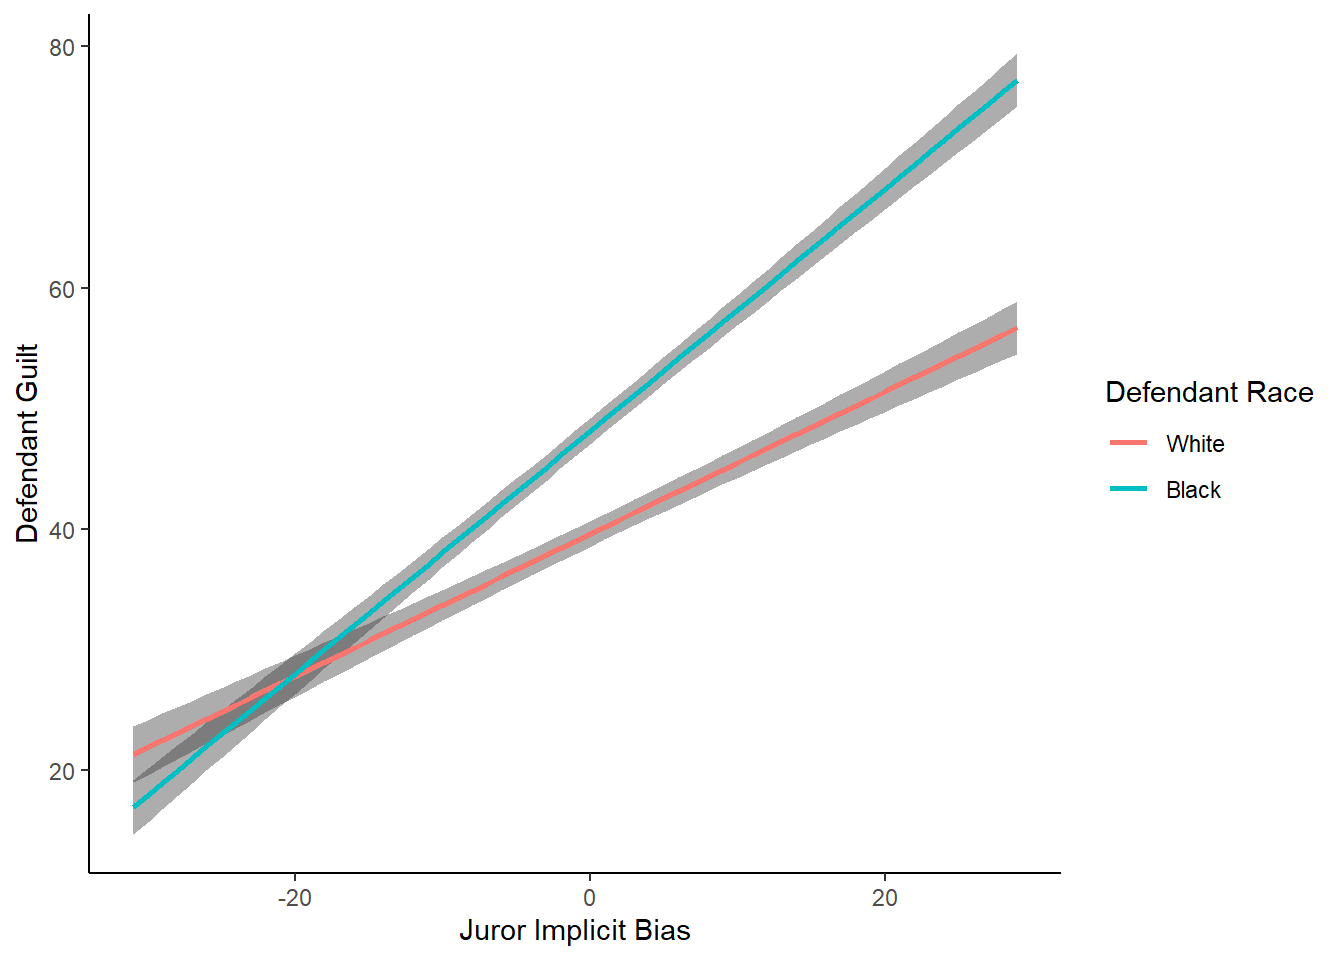
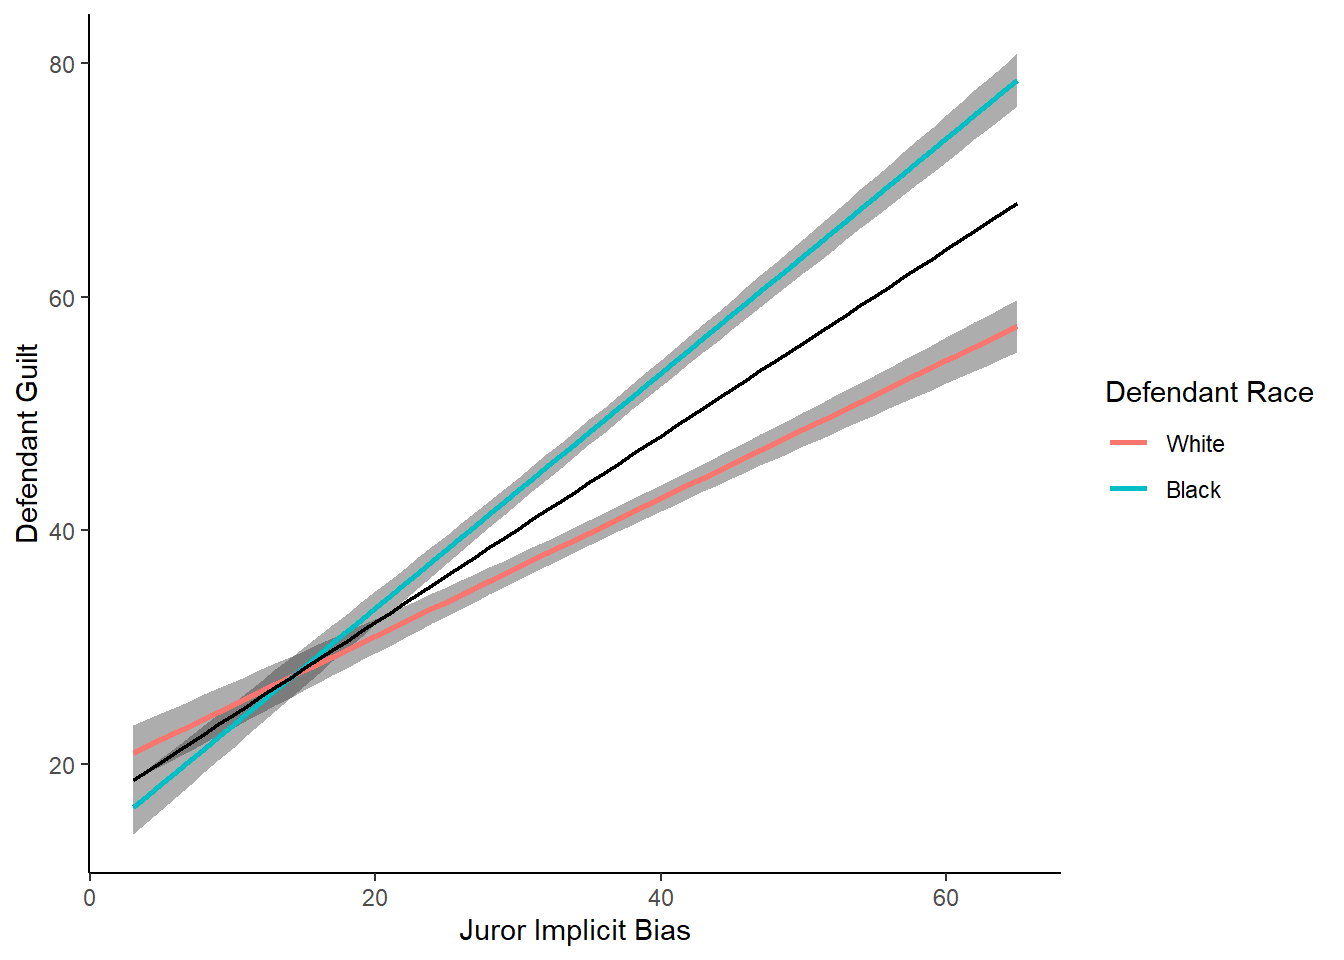
Built site for gh-pages

diff --git a/11_interactions_continuous_and_dichotomous.html b/11_interactions_continuous_and_dichotomous.html
@@ -326,6 +326,7 @@ window.Quarto = {
   <ul>
   <li><a href="#interactive-models-quantitative-and-dichotomous" id="toc-interactive-models-quantitative-and-dichotomous" class="nav-link active" data-scroll-target="#interactive-models-quantitative-and-dichotomous"><span class="header-section-number">11.1</span> Interactive Models: Quantitative and Dichotomous</a></li>
   <li><a href="#quantitative-dichotomous-predictor-main-effects" id="toc-quantitative-dichotomous-predictor-main-effects" class="nav-link" data-scroll-target="#quantitative-dichotomous-predictor-main-effects"><span class="header-section-number">11.2</span> Quantitative &amp; Dichotomous: Predictor <em>Main</em> effects</a></li>
+  <li><a href="#quantitative-dichotomous-predictor-simple-effects" id="toc-quantitative-dichotomous-predictor-simple-effects" class="nav-link" data-scroll-target="#quantitative-dichotomous-predictor-simple-effects"><span class="header-section-number">11.3</span> Quantitative &amp; Dichotomous: Predictor <em>simple</em> effects</a></li>
   </ul>
 <div class="toc-actions"><ul><li><a href="https://github.com/jjcurtin/book_glm/edit/main/11_interactions_continuous_and_dichotomous.qmd" class="toc-action"><i class="bi bi-github"></i>Edit this page</a></li></ul></div></nav>
     </div>
@@ -597,31 +598,33 @@ black_defend_c:bias_c  0.2312938  0.5985222</code></pre>
 <div class="cell">
 <details class="code-fold">
 <summary>Code</summary>
-<div class="sourceCode cell-code" id="cb27"><pre class="sourceCode r code-with-copy"><code class="sourceCode r"><span id="cb27-1"><a href="#cb27-1" aria-hidden="true" tabindex="-1"></a>preds_int <span class="ot">&lt;-</span> <span class="fu">expand.grid</span>(<span class="at">bias_c =</span> <span class="fu">seq</span>(<span class="sc">-</span><span class="dv">31</span>, <span class="dv">29</span>, <span class="at">by =</span> <span class="dv">1</span>), <span class="at">black_defend_c =</span> <span class="fu">c</span>(<span class="sc">-</span>.<span class="dv">5</span>, .<span class="dv">5</span>))</span>
-<span id="cb27-2"><a href="#cb27-2" aria-hidden="true" tabindex="-1"></a>preds_y_int <span class="ot">&lt;-</span> <span class="fu">predict</span>(m_int, <span class="at">newdata =</span> preds_int, <span class="at">se.fit =</span> <span class="cn">TRUE</span>) </span>
-<span id="cb27-3"><a href="#cb27-3" aria-hidden="true" tabindex="-1"></a></span>
-<span id="cb27-4"><a href="#cb27-4" aria-hidden="true" tabindex="-1"></a>plot_int <span class="ot">&lt;-</span> preds_int <span class="sc">|&gt;</span> </span>
-<span id="cb27-5"><a href="#cb27-5" aria-hidden="true" tabindex="-1"></a>  <span class="fu">bind_cols</span>(preds_y_int) <span class="sc">|&gt;</span> </span>
-<span id="cb27-6"><a href="#cb27-6" aria-hidden="true" tabindex="-1"></a>  <span class="fu">as_tibble</span>() <span class="sc">|&gt;</span>  </span>
-<span id="cb27-7"><a href="#cb27-7" aria-hidden="true" tabindex="-1"></a>  <span class="fu">mutate</span>(<span class="at">upper =</span> fit <span class="sc">+</span> se.fit,</span>
-<span id="cb27-8"><a href="#cb27-8" aria-hidden="true" tabindex="-1"></a>         <span class="at">lower=</span> fit <span class="sc">-</span> se.fit) <span class="sc">|&gt;</span> </span>
-<span id="cb27-9"><a href="#cb27-9" aria-hidden="true" tabindex="-1"></a>  <span class="fu">ggplot</span>() <span class="sc">+</span></span>
-<span id="cb27-10"><a href="#cb27-10" aria-hidden="true" tabindex="-1"></a>  <span class="fu">geom_ribbon</span>(<span class="fu">aes</span>(<span class="at">x =</span> bias_c, <span class="at">ymin =</span> lower, <span class="at">ymax =</span> upper, </span>
-<span id="cb27-11"><a href="#cb27-11" aria-hidden="true" tabindex="-1"></a>                  <span class="at">group =</span> <span class="fu">factor</span>(black_defend_c, </span>
-<span id="cb27-12"><a href="#cb27-12" aria-hidden="true" tabindex="-1"></a>                                 <span class="at">levels =</span> <span class="fu">c</span>(<span class="sc">-</span>.<span class="dv">5</span>,.<span class="dv">5</span>),</span>
-<span id="cb27-13"><a href="#cb27-13" aria-hidden="true" tabindex="-1"></a>                                 <span class="at">labels =</span> <span class="fu">c</span>(<span class="st">"White"</span>, <span class="st">"Black"</span>))), </span>
-<span id="cb27-14"><a href="#cb27-14" aria-hidden="true" tabindex="-1"></a>              <span class="at">alpha =</span> <span class="fl">0.4</span>) <span class="sc">+</span></span>
-<span id="cb27-15"><a href="#cb27-15" aria-hidden="true" tabindex="-1"></a>  <span class="fu">geom_line</span>(<span class="fu">aes</span>(<span class="at">x =</span> bias_c, <span class="at">y =</span> fit, </span>
-<span id="cb27-16"><a href="#cb27-16" aria-hidden="true" tabindex="-1"></a>                <span class="at">color =</span> <span class="fu">factor</span>(black_defend_c, </span>
-<span id="cb27-17"><a href="#cb27-17" aria-hidden="true" tabindex="-1"></a>                                 <span class="at">levels =</span> <span class="fu">c</span>(<span class="sc">-</span>.<span class="dv">5</span>,.<span class="dv">5</span>),</span>
-<span id="cb27-18"><a href="#cb27-18" aria-hidden="true" tabindex="-1"></a>                                 <span class="at">labels =</span> <span class="fu">c</span>(<span class="st">"White"</span>, <span class="st">"Black"</span>))), </span>
-<span id="cb27-19"><a href="#cb27-19" aria-hidden="true" tabindex="-1"></a>            <span class="at">linewidth =</span> <span class="dv">1</span>) <span class="sc">+</span></span>
-<span id="cb27-20"><a href="#cb27-20" aria-hidden="true" tabindex="-1"></a>  <span class="fu">labs</span>(<span class="at">x =</span> <span class="st">"Juror Implicit Bias"</span>,</span>
-<span id="cb27-21"><a href="#cb27-21" aria-hidden="true" tabindex="-1"></a>       <span class="at">y =</span> <span class="st">"Defendant Guilt"</span>,</span>
-<span id="cb27-22"><a href="#cb27-22" aria-hidden="true" tabindex="-1"></a>       <span class="at">color =</span> <span class="st">"Defendant Race"</span>) </span>
-<span id="cb27-23"><a href="#cb27-23" aria-hidden="true" tabindex="-1"></a></span>
-<span id="cb27-24"><a href="#cb27-24" aria-hidden="true" tabindex="-1"></a></span>
-<span id="cb27-25"><a href="#cb27-25" aria-hidden="true" tabindex="-1"></a>plot_add <span class="sc">+</span> plot_int</span></code><button title="Copy to Clipboard" class="code-copy-button"><i class="bi"></i></button></pre></div>
+<div class="sourceCode cell-code" id="cb27"><pre class="sourceCode r code-with-copy"><code class="sourceCode r"><span id="cb27-1"><a href="#cb27-1" aria-hidden="true" tabindex="-1"></a>m_int_raw <span class="ot">&lt;-</span> <span class="fu">lm</span>(guilt <span class="sc">~</span> black_defend <span class="sc">*</span> bias, <span class="at">data =</span> data)</span>
+<span id="cb27-2"><a href="#cb27-2" aria-hidden="true" tabindex="-1"></a>preds_int <span class="ot">&lt;-</span> <span class="fu">expand.grid</span>(<span class="at">bias =</span> <span class="fu">seq</span>(<span class="dv">3</span>, <span class="dv">65</span>, <span class="at">by =</span> <span class="dv">1</span>), <span class="at">black_defend =</span> <span class="fu">c</span>(<span class="dv">0</span>, <span class="dv">1</span>))</span>
+<span id="cb27-3"><a href="#cb27-3" aria-hidden="true" tabindex="-1"></a>preds_y_int <span class="ot">&lt;-</span> <span class="fu">predict</span>(m_int_raw, <span class="at">newdata =</span> preds_int, <span class="at">se.fit =</span> <span class="cn">TRUE</span>) </span>
+<span id="cb27-4"><a href="#cb27-4" aria-hidden="true" tabindex="-1"></a></span>
+<span id="cb27-5"><a href="#cb27-5" aria-hidden="true" tabindex="-1"></a>preds_int <span class="ot">&lt;-</span> preds_int <span class="sc">|&gt;</span> </span>
+<span id="cb27-6"><a href="#cb27-6" aria-hidden="true" tabindex="-1"></a>  <span class="fu">bind_cols</span>(preds_y_int) <span class="sc">|&gt;</span> </span>
+<span id="cb27-7"><a href="#cb27-7" aria-hidden="true" tabindex="-1"></a>  <span class="fu">as_tibble</span>() <span class="sc">|&gt;</span>  </span>
+<span id="cb27-8"><a href="#cb27-8" aria-hidden="true" tabindex="-1"></a>  <span class="fu">mutate</span>(<span class="at">upper =</span> fit <span class="sc">+</span> se.fit,</span>
+<span id="cb27-9"><a href="#cb27-9" aria-hidden="true" tabindex="-1"></a>         <span class="at">lower=</span> fit <span class="sc">-</span> se.fit)  </span>
+<span id="cb27-10"><a href="#cb27-10" aria-hidden="true" tabindex="-1"></a></span>
+<span id="cb27-11"><a href="#cb27-11" aria-hidden="true" tabindex="-1"></a>plot_int <span class="ot">&lt;-</span> <span class="fu">ggplot</span>() <span class="sc">+</span></span>
+<span id="cb27-12"><a href="#cb27-12" aria-hidden="true" tabindex="-1"></a>  <span class="fu">geom_ribbon</span>(<span class="fu">aes</span>(<span class="at">x =</span> preds_int<span class="sc">$</span>bias, <span class="at">ymin =</span> preds_int<span class="sc">$</span>lower, <span class="at">ymax =</span> preds_int<span class="sc">$</span>upper, </span>
+<span id="cb27-13"><a href="#cb27-13" aria-hidden="true" tabindex="-1"></a>                  <span class="at">group =</span> <span class="fu">factor</span>(preds_int<span class="sc">$</span>black_defend, </span>
+<span id="cb27-14"><a href="#cb27-14" aria-hidden="true" tabindex="-1"></a>                                 <span class="at">levels =</span> <span class="fu">c</span>(<span class="dv">0</span>, <span class="dv">1</span>),</span>
+<span id="cb27-15"><a href="#cb27-15" aria-hidden="true" tabindex="-1"></a>                                 <span class="at">labels =</span> <span class="fu">c</span>(<span class="st">"White"</span>, <span class="st">"Black"</span>))), </span>
+<span id="cb27-16"><a href="#cb27-16" aria-hidden="true" tabindex="-1"></a>              <span class="at">alpha =</span> <span class="fl">0.4</span>) <span class="sc">+</span></span>
+<span id="cb27-17"><a href="#cb27-17" aria-hidden="true" tabindex="-1"></a>  <span class="fu">geom_line</span>(<span class="fu">aes</span>(<span class="at">x =</span> preds_int<span class="sc">$</span>bias, <span class="at">y =</span> preds_int<span class="sc">$</span>fit, </span>
+<span id="cb27-18"><a href="#cb27-18" aria-hidden="true" tabindex="-1"></a>                <span class="at">color =</span> <span class="fu">factor</span>(preds_int<span class="sc">$</span>black_defend, </span>
+<span id="cb27-19"><a href="#cb27-19" aria-hidden="true" tabindex="-1"></a>                                 <span class="at">levels =</span> <span class="fu">c</span>(<span class="dv">0</span>, <span class="dv">1</span>),</span>
+<span id="cb27-20"><a href="#cb27-20" aria-hidden="true" tabindex="-1"></a>                                 <span class="at">labels =</span> <span class="fu">c</span>(<span class="st">"White"</span>, <span class="st">"Black"</span>))), </span>
+<span id="cb27-21"><a href="#cb27-21" aria-hidden="true" tabindex="-1"></a>            <span class="at">linewidth =</span> <span class="dv">1</span>) <span class="sc">+</span></span>
+<span id="cb27-22"><a href="#cb27-22" aria-hidden="true" tabindex="-1"></a>  <span class="fu">labs</span>(<span class="at">x =</span> <span class="st">"Juror Implicit Bias"</span>,</span>
+<span id="cb27-23"><a href="#cb27-23" aria-hidden="true" tabindex="-1"></a>       <span class="at">y =</span> <span class="st">"Defendant Guilt"</span>,</span>
+<span id="cb27-24"><a href="#cb27-24" aria-hidden="true" tabindex="-1"></a>       <span class="at">color =</span> <span class="st">"Defendant Race"</span>) </span>
+<span id="cb27-25"><a href="#cb27-25" aria-hidden="true" tabindex="-1"></a></span>
+<span id="cb27-26"><a href="#cb27-26" aria-hidden="true" tabindex="-1"></a></span>
+<span id="cb27-27"><a href="#cb27-27" aria-hidden="true" tabindex="-1"></a>plot_add <span class="sc">+</span> plot_int</span></code><button title="Copy to Clipboard" class="code-copy-button"><i class="bi"></i></button></pre></div>
 </details>
 <div class="cell-output-display">
 <div>
@@ -660,7 +663,19 @@ black_defend_c:bias_c  0.2312938  0.5985222</code></pre>
 <div class="cell">
 <details class="code-fold">
 <summary>Code</summary>
-<div class="sourceCode cell-code" id="cb30"><pre class="sourceCode r code-with-copy"><code class="sourceCode r"><span id="cb30-1"><a href="#cb30-1" aria-hidden="true" tabindex="-1"></a>plot_int</span></code><button title="Copy to Clipboard" class="code-copy-button"><i class="bi"></i></button></pre></div>
+<div class="sourceCode cell-code" id="cb30"><pre class="sourceCode r code-with-copy"><code class="sourceCode r"><span id="cb30-1"><a href="#cb30-1" aria-hidden="true" tabindex="-1"></a>preds_effect_bias <span class="ot">&lt;-</span> <span class="fu">predict</span>(m_int_raw, </span>
+<span id="cb30-2"><a href="#cb30-2" aria-hidden="true" tabindex="-1"></a>                             <span class="at">newdata =</span> <span class="fu">tibble</span>(<span class="at">black_defend =</span> .<span class="dv">5</span>,</span>
+<span id="cb30-3"><a href="#cb30-3" aria-hidden="true" tabindex="-1"></a>                                              <span class="at">bias =</span> <span class="fu">seq</span>(<span class="dv">3</span>, <span class="dv">65</span>, <span class="at">by =</span> <span class="dv">1</span>)), </span>
+<span id="cb30-4"><a href="#cb30-4" aria-hidden="true" tabindex="-1"></a>                             <span class="at">se.fit =</span> <span class="cn">TRUE</span>) <span class="sc">|&gt;</span> </span>
+<span id="cb30-5"><a href="#cb30-5" aria-hidden="true" tabindex="-1"></a>  <span class="fu">as_tibble</span>() <span class="sc">|&gt;</span> </span>
+<span id="cb30-6"><a href="#cb30-6" aria-hidden="true" tabindex="-1"></a>  <span class="fu">bind_cols</span>(<span class="fu">tibble</span>(<span class="at">black_defend =</span> .<span class="dv">5</span>, <span class="at">bias =</span> <span class="fu">seq</span>(<span class="dv">3</span>, <span class="dv">65</span>, <span class="at">by =</span> <span class="dv">1</span>))) </span>
+<span id="cb30-7"><a href="#cb30-7" aria-hidden="true" tabindex="-1"></a></span>
+<span id="cb30-8"><a href="#cb30-8" aria-hidden="true" tabindex="-1"></a>plot_int <span class="ot">&lt;-</span> plot_int <span class="sc">+</span></span>
+<span id="cb30-9"><a href="#cb30-9" aria-hidden="true" tabindex="-1"></a>  <span class="fu">geom_line</span>(<span class="fu">aes</span>(<span class="at">x =</span> preds_effect_bias<span class="sc">$</span>bias,</span>
+<span id="cb30-10"><a href="#cb30-10" aria-hidden="true" tabindex="-1"></a>                <span class="at">y =</span> preds_effect_bias<span class="sc">$</span>fit), </span>
+<span id="cb30-11"><a href="#cb30-11" aria-hidden="true" tabindex="-1"></a>            <span class="at">linewidth =</span> .<span class="dv">75</span>)</span>
+<span id="cb30-12"><a href="#cb30-12" aria-hidden="true" tabindex="-1"></a></span>
+<span id="cb30-13"><a href="#cb30-13" aria-hidden="true" tabindex="-1"></a>plot_int</span></code><button title="Copy to Clipboard" class="code-copy-button"><i class="bi"></i></button></pre></div>
 </details>
 <div class="cell-output-display">
 <div>
@@ -696,7 +711,10 @@ black_defend_c:bias_c  0.2312938  0.5985222</code></pre>
 <div class="cell">
 <details class="code-fold">
 <summary>Code</summary>
-<div class="sourceCode cell-code" id="cb33"><pre class="sourceCode r code-with-copy"><code class="sourceCode r"><span id="cb33-1"><a href="#cb33-1" aria-hidden="true" tabindex="-1"></a>plot_int</span></code><button title="Copy to Clipboard" class="code-copy-button"><i class="bi"></i></button></pre></div>
+<div class="sourceCode cell-code" id="cb33"><pre class="sourceCode r code-with-copy"><code class="sourceCode r"><span id="cb33-1"><a href="#cb33-1" aria-hidden="true" tabindex="-1"></a>plot_int <span class="ot">&lt;-</span> plot_int <span class="sc">+</span></span>
+<span id="cb33-2"><a href="#cb33-2" aria-hidden="true" tabindex="-1"></a>  <span class="fu">geom_vline</span>(<span class="at">xintercept =</span> <span class="fu">mean</span>(data<span class="sc">$</span>bias), <span class="at">linewidth =</span> .<span class="dv">75</span>)</span>
+<span id="cb33-3"><a href="#cb33-3" aria-hidden="true" tabindex="-1"></a></span>
+<span id="cb33-4"><a href="#cb33-4" aria-hidden="true" tabindex="-1"></a>plot_int</span></code><button title="Copy to Clipboard" class="code-copy-button"><i class="bi"></i></button></pre></div>
 </details>
 <div class="cell-output-display">
 <div>
@@ -707,6 +725,53 @@ black_defend_c:bias_c  0.2312938  0.5985222</code></pre>
 </div>
 </div>
 <hr>
+<div class="cell">
+<details open="" class="code-fold">
+<summary>Code</summary>
+<div class="sourceCode cell-code" id="cb34"><pre class="sourceCode r code-with-copy"><code class="sourceCode r"><span id="cb34-1"><a href="#cb34-1" aria-hidden="true" tabindex="-1"></a>m_int <span class="sc">|&gt;</span> </span>
+<span id="cb34-2"><a href="#cb34-2" aria-hidden="true" tabindex="-1"></a>  broom<span class="sc">::</span><span class="fu">tidy</span>()</span></code><button title="Copy to Clipboard" class="code-copy-button"><i class="bi"></i></button></pre></div>
+</details>
+<div class="cell-output cell-output-stdout">
+<pre><code># A tibble: 4 × 5
+  term                  estimate std.error statistic   p.value
+  &lt;chr&gt;                    &lt;dbl&gt;     &lt;dbl&gt;     &lt;dbl&gt;     &lt;dbl&gt;
+1 (Intercept)             43.9      0.751      58.4  2.78e-142
+2 black_defend_c           8.50     1.50        5.66 4.40e-  8
+3 bias_c                   0.797    0.0466     17.1  3.24e- 43
+4 black_defend_c:bias_c    0.415    0.0932      4.45 1.31e-  5</code></pre>
+</div>
+</div>
+<p><span class="math inline">\(\text{guilt} = 43.9 + 8.5*\text{black defend}_c + 0.8*\text{bias}_c + .4*\text{black defend}_c*\text{bias}_c\)</span></p>
+<p><span style="color: red;">Question: How do we test for the interaction between Bias and Defendant Race on Guilt?</span></p>
+<hr>
+<p><span style="color: blue;">The test of the <span class="math inline">\(b\)</span> for the product term (defendent race X bias) is the test of the interaction. It is significant, <span class="math inline">\(t(236)= 4.45, p&lt; .001\)</span>.</span></p>
+<hr>
+<p><span style="color: red;">Question: What does this mean to have an interaction and how do you interpret <span class="math inline">\(b = 0.4\)</span>?</span></p>
+<hr>
+<p><span style="color: blue;">The magnitude of the effect of defendant race on guilt increases by 0.4 units for every one unit increase in bias.</span></p>
+<p><span style="color: blue;">The magnitude of the effect of bias is 0.4 units greater when the defendants are Black than when they are White.</span></p>
+<hr>
+<div class="cell">
+<details class="code-fold">
+<summary>Code</summary>
+<div class="sourceCode cell-code" id="cb36"><pre class="sourceCode r code-with-copy"><code class="sourceCode r"><span id="cb36-1"><a href="#cb36-1" aria-hidden="true" tabindex="-1"></a>plot_int</span></code><button title="Copy to Clipboard" class="code-copy-button"><i class="bi"></i></button></pre></div>
+</details>
+<div class="cell-output-display">
+<div>
+<figure class="figure">
+<p><img src="11_interactions_continuous_and_dichotomous_files/figure-html/unnamed-chunk-21-1.png" class="img-fluid figure-img" width="672"></p>
+</figure>
+</div>
+</div>
+</div>
+<ul>
+<li><p>The slopes of the lines differ by 0.4 <strong>or</strong></p></li>
+<li><p>The separation of the lines increases by 0.4 for every 1 unit increase in bias.</p></li>
+</ul>
+<hr>
+</section>
+<section id="quantitative-dichotomous-predictor-simple-effects" class="level2" data-number="11.3">
+<h2 data-number="11.3" class="anchored" data-anchor-id="quantitative-dichotomous-predictor-simple-effects"><span class="header-section-number">11.3</span> Quantitative &amp; Dichotomous: Predictor <em>simple</em> effects</h2>
 
 
 </section>
